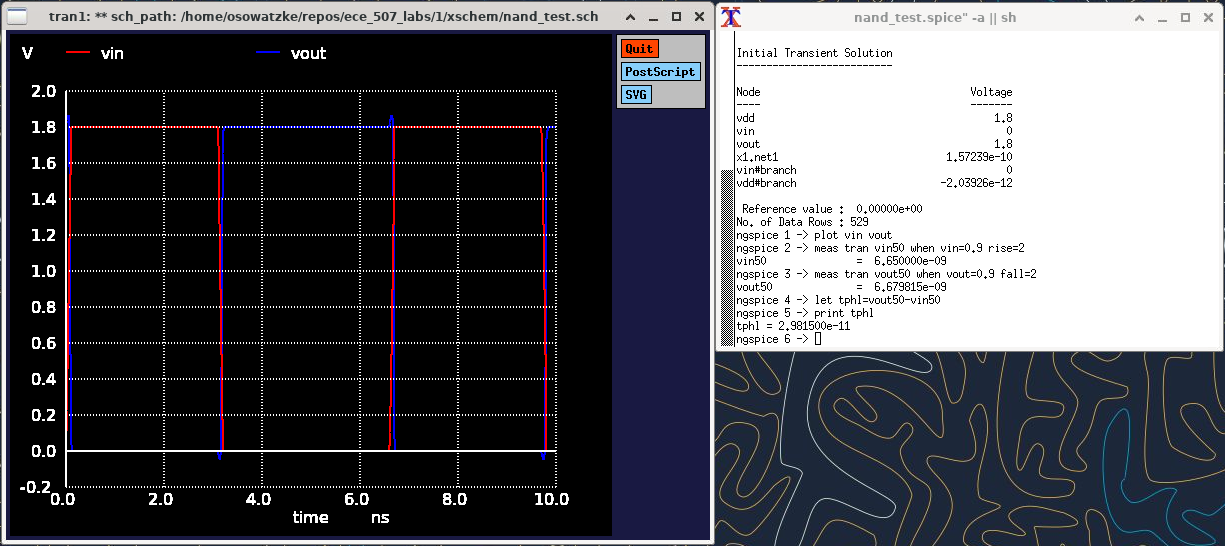
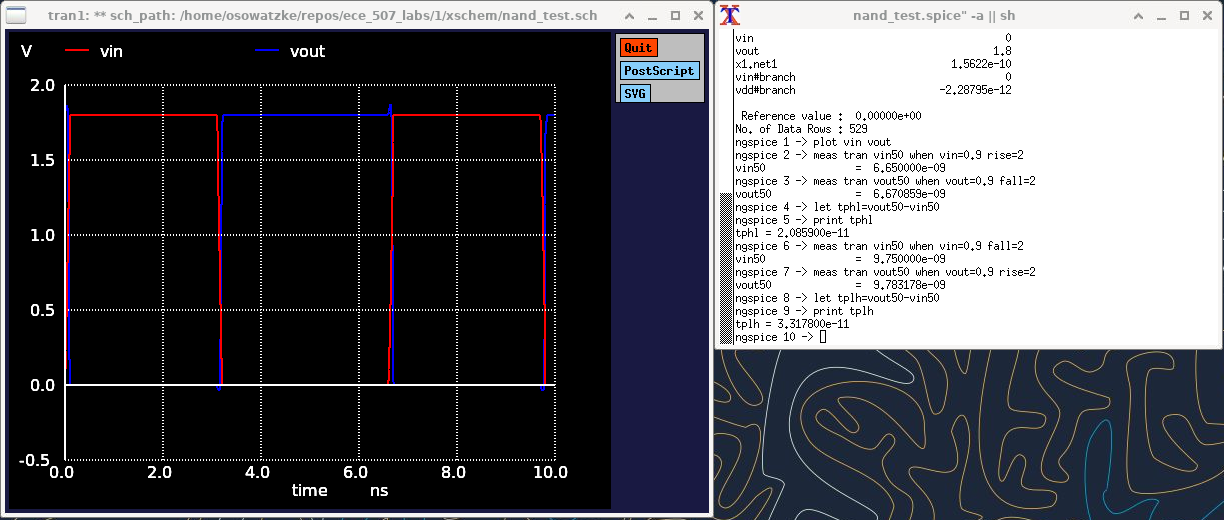
Adding table to summarize delay results

diff --git a/1/lab_report.tex b/1/lab_report.tex
@@ -299,23 +299,62 @@
 	
 	\subsubsection{Delay Analysis}
 	
-	In this section, we analyze the delay of the NAND gate and specifically measure the high to low propagation delay (\texttt{tphl}). To perform this analysis for independent variations of the input \texttt{a}, we use the following test circuit:
+	In this section, we analyze the propagation delay of the NAND gate. To do so, we need to measure both the high-to-low propagation delay (\texttt{tphl}) and the low-to-high propagation delay. We measure \texttt{tphl} for each of the transitions listed in Table \ref{table::nand_gate_high_to_low_transitions}, and we measure \texttt{tplh} for each of the transitions listed in Table \ref{table::nand_gate_low_to_high_transitions}.
 	
+	\begin{table}[H]
+	\begin{center}
+	\caption{Inputs that Create Low-to-High Transition for NAND Gate}
+	\label{table::nand_gate_low_to_high_transitions}
+	\begin{tabular}{| c | c |}
+		\hline
+		\texttt{a} & \texttt{b} \\
+		\hline	
+		$1 \rightarrow 0$ & $1$\\
+		\hline	
+		$1$ & $1 \rightarrow 0$\\
+		\hline	
+		$1 \rightarrow 0$ & $1 \rightarrow 0$\\
+		\hline
+	\end{tabular}
+	\end{center}
+	\end{table}
+	
+	\noindent For variations of \texttt{a} with \texttt{b=1}, we can use the test circuit shown in Figure \ref{fig::nand_delay_test_sweep_va} to measure propagation delays. Note the input waveforms contains both rising an falling edges, so we can use it to measure \texttt{tphl} and \texttt{tplh}.
+
 	\begin{figure}[H]
 		\centerline{\includegraphics[width=0.8\textwidth]{nand_delay_test_sweep_va.png}}
-		\caption{Test Circuit to Measure the Delay of the NAND Gate when Only Input \texttt{a} is Varied}
+		\caption{Test Circuit to Measure the Delay of the NAND Gate when \texttt{a} is Varied and \texttt{b=1}}
 		\label{fig::nand_delay_test_sweep_va}
 	\end{figure}
 	
-	Using the test circuit, we measure can measure the high-to-low propagation delay as follows:
+	\noindent Using the test circuit, we measure can measure \texttt{tphl} and \texttt{tplh} as follows:
 	
 	\begin{figure}[H]
 		\centerline{\includegraphics[width=0.8\textwidth]{nand_delay_sweep_va.png}}
-		\caption{\texttt{tphl} Measurement for the NAND Gate when Input Variations are Limited to Input \texttt{a}}
+		\caption{\texttt{tphl} Measurement for the NAND Gate when \texttt{a} is Varied and \texttt{b=1}}
 		\label{fig::nand_delay_sweep_va}
 	\end{figure}
 	
-	Examining the output results, we find that \texttt{tphl = 29.815 ps}. We can perform similar analysis to examine the impact of varying just the input \texttt{b}. The test circuits for this analysis is shown in Figures \ref{fig::nand_delay_test_sweep_vb} and the results are shown in Figure \ref{fig::nand_delay_sweep_vb}.
+	Examining the output results, we find that \texttt{tphl = 20.859 ps} for \texttt{a = }$0 \rightarrow 1$ and \texttt{b = 1}. Similarly, we find that \texttt{tphl = 33.178 ps} for \texttt{a = }$1 \rightarrow 0$ and \texttt{b = 1}. We perform similar analysis for the remaining transitions listed in Table \ref{table::nand_gate_high_to_low_transitions} and Table \ref{table::nand_gate_high_to_low_transitions}. Our results are summarized in Table \ref{table::nand_gate_delay_analysis}.
+	
+	\begin{table}[H]
+	\begin{center}
+	\caption{Propagation Delays for Each Transition That Result in an Output Logic Level Change}
+	\label{table::nand_gate_delay_analysis}
+	\begin{tabular}{| c | c | c || c | c | c |}
+		\hline
+		\texttt{a} & \texttt{b} & \texttt{tphl} & \texttt{a} & \texttt{b} & \texttt{tplh} \\
+		\hline	
+		$0 \rightarrow 1$ & $1$ & $20.859\ \text{ps}$ & $1 \rightarrow 0$ & $1$ & $33.178\ \text{ps}$\\
+		\hline	
+		$1$ & $0 \rightarrow 1$ & $28.146\ \text{ps}$ & $1$ & $1 \rightarrow 0$ & $48.137\ \text{ps}$\\
+		\hline	
+		$0 \rightarrow 1$ & $0 \rightarrow 1$ & $29.297\ \text{ps}$ & $1 \rightarrow 0$ & $1 \rightarrow 0$ & $26.097\ \text{ps}$\\
+		\hline
+	\end{tabular}
+	\end{center}
+	\end{table}
+	
 	
 	\begin{figure}[H]
 		\centerline{\includegraphics[width=0.8\textwidth]{nand_delay_test_sweep_vb.png}}
